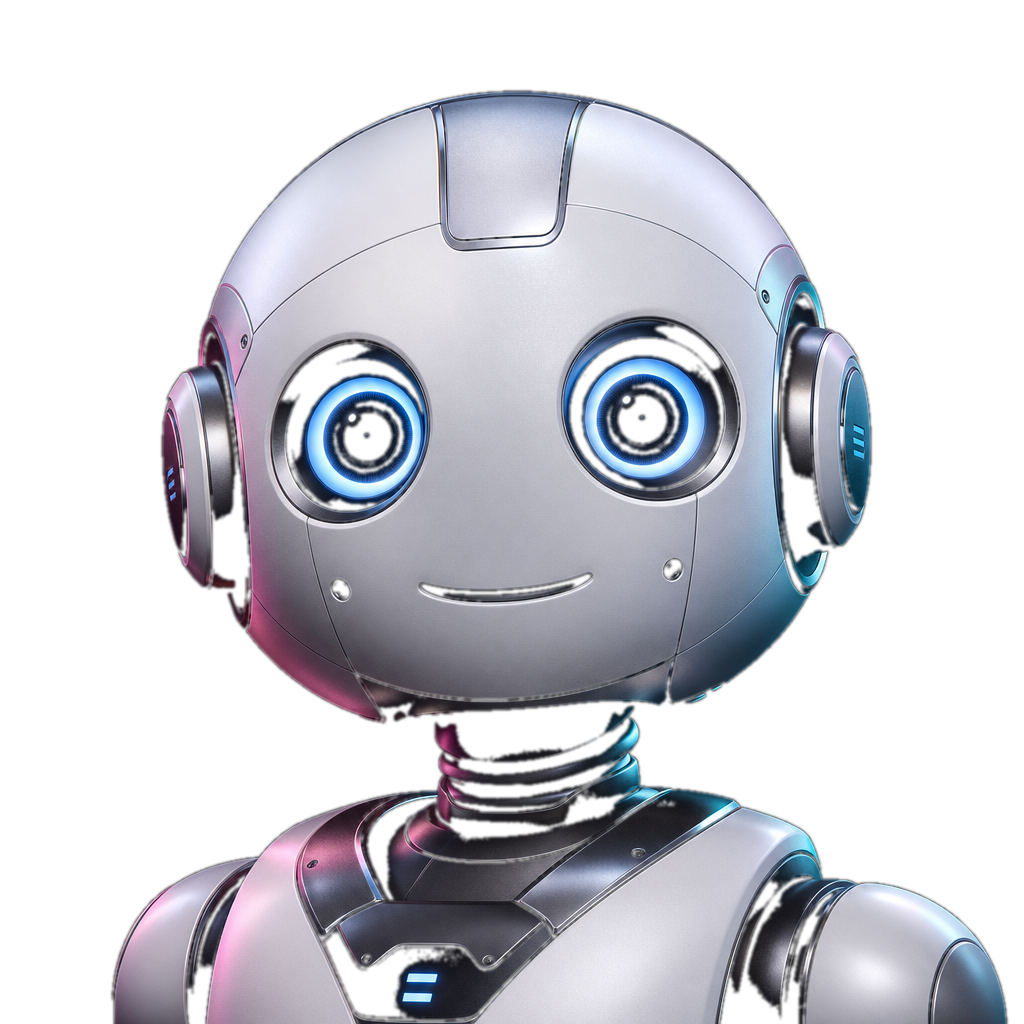
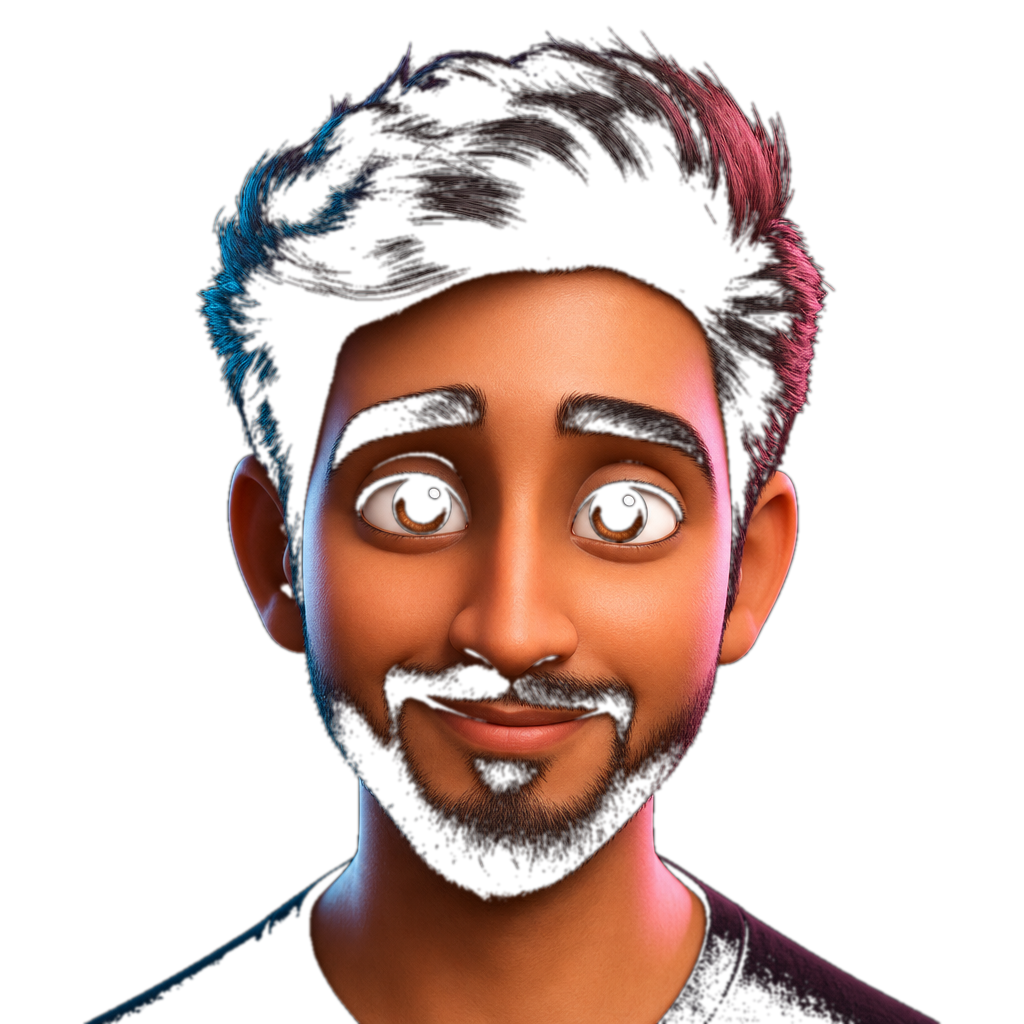
hero: cartoon Pixar Kumar face + matching reference layout, lighter modal
Hero
- New portrait: Pixar/Disney-style 3D cartoon character — Indian young man,
  styled dark hair, big expressive eyes, soft smile, short beard. Replaces
  the robot mascot. Chroma-keyed transparent bg.
- Layout restructured to match the motionsite reference: heading anchored
  to the TOP (pt-24..32, text-center), portrait floats CENTRED at top:60%,
  subline + Contact pinned to the bottom via mt-auto. Previous layout
  pushed the heading to the bottom and stretched the body to the floor.
- Subline rewritten for the 3-line cadence the reference uses:
    Building the tools,
    shipping the experiments,
    owning the impact.

Projects
- Case Study modal: removed the hero image from the modal. Title + Problem
  / What I did / Impact only — the card already shows the visual; the modal
  is now focused entirely on the story.

diff --git a/src/components/sections/Hero.tsx b/src/components/sections/Hero.tsx
@@ -9,46 +9,48 @@ export function Hero() {
       className="relative h-screen flex flex-col px-6 md:px-10"
       style={{ overflowX: 'clip' }}
     >
-      <div className="flex-1 flex flex-col justify-end relative">
-        {/* Background portrait, behind the heading */}
-        <FadeIn
-          delay={0.6}
-          y={30}
-          className="absolute left-1/2 -translate-x-1/2 z-10 w-[240px] xs:w-[260px] sm:w-[360px] md:w-[440px] lg:w-[520px] top-[42%] -translate-y-1/2 sm:top-auto sm:translate-y-0 sm:bottom-0 pointer-events-none"
-        >
-          <Magnet padding={150} strength={3}>
-            <img
-              src="/portrait-3d.png"
-              alt="Kumar Shivam"
-              className="w-full h-auto select-none portrait-blend"
-              draggable={false}
-            />
-          </Magnet>
+      {/* H1 — anchored to the top, centered horizontally */}
+      <div className="pt-24 sm:pt-28 md:pt-32 relative z-20 overflow-hidden w-full">
+        <FadeIn delay={0.15} y={40}>
+          <h1 className="hero-heading font-black uppercase tracking-tight leading-none whitespace-nowrap text-center text-[11vw] sm:text-[12vw] md:text-[13vw] lg:text-[14vw]">
+            Hi, i&apos;m Kumar
+          </h1>
         </FadeIn>
+      </div>
 
-        {/* Massive heading */}
-        <div className="overflow-hidden w-full relative z-20 mt-6 sm:mt-4 md:-mt-5">
-          <FadeIn delay={0.15} y={40}>
-            <h1 className="hero-heading font-black uppercase tracking-tight leading-none whitespace-nowrap w-full text-[11vw] sm:text-[12vw] md:text-[13vw] lg:text-[14vw]">
-              Hi, i&apos;m Kumar
-            </h1>
-          </FadeIn>
-        </div>
+      {/* Portrait — centered horizontally, vertically between H1 and bottom bar */}
+      <FadeIn
+        delay={0.6}
+        y={30}
+        className="absolute left-1/2 -translate-x-1/2 z-10 top-[60%] -translate-y-1/2 w-[200px] xs:w-[230px] sm:w-[280px] md:w-[340px] lg:w-[400px] pointer-events-none"
+      >
+        <Magnet padding={150} strength={3}>
+          <img
+            src="/portrait-3d.png"
+            alt="Kumar Shivam"
+            className="w-full h-auto select-none portrait-blend"
+            draggable={false}
+          />
+        </Magnet>
+      </FadeIn>
 
-        {/* Bottom bar: subline left, contact button right */}
-        <div className="relative z-20 flex justify-between items-end pb-7 sm:pb-8 md:pb-10 gap-4">
-          <FadeIn delay={0.35} y={20}>
-            <p
-              className="text-haze font-light uppercase tracking-wide leading-snug max-w-[200px] sm:max-w-[300px] md:max-w-[380px]"
-              style={{ fontSize: 'clamp(0.7rem, 1.2vw, 1.2rem)' }}
-            >
-              A Lead Product Analyst at media.net · an IIT BHU grad turning data into revenue.
-            </p>
-          </FadeIn>
-          <FadeIn delay={0.5} y={20}>
-            <ContactButton />
-          </FadeIn>
-        </div>
+      {/* Bottom bar — subline left, contact button right */}
+      <div className="mt-auto relative z-20 flex justify-between items-end pb-7 sm:pb-8 md:pb-10 gap-4">
+        <FadeIn delay={0.35} y={20}>
+          <p
+            className="text-haze font-light uppercase tracking-wide leading-snug max-w-[200px] sm:max-w-[260px] md:max-w-[340px]"
+            style={{ fontSize: 'clamp(0.72rem, 1.15vw, 1.1rem)' }}
+          >
+            Building the tools,
+            <br />
+            shipping the experiments,
+            <br />
+            owning the impact.
+          </p>
+        </FadeIn>
+        <FadeIn delay={0.5} y={20}>
+          <ContactButton />
+        </FadeIn>
       </div>
     </section>
   )

diff --git a/src/components/sections/Projects.tsx b/src/components/sections/Projects.tsx
@@ -202,19 +202,6 @@ function CaseStudyModal({
           {project.name}
         </h3>
 
-        {project.image && (
-          <div className="rounded-[20px] sm:rounded-[28px] overflow-hidden mb-6 aspect-[16/10] bg-ink">
-            <img
-              src={project.image}
-              alt={`${project.name} UI`}
-              className="w-full h-full object-cover"
-              onError={(e) => {
-                ;(e.currentTarget as HTMLImageElement).style.display = 'none'
-              }}
-            />
-          </div>
-        )}
-
         <Block label="Problem" body={project.problem} />
         <Block label="What I did" body={project.whatIDid} />
         <Block label="Impact" body={project.impact} accent />

diff --git a/scripts/generate_all_assets.py b/scripts/generate_all_assets.py
@@ -31,16 +31,17 @@ SIZE = "1024x1024"
 
 
 HERO_PROMPT = (
-    "Cute friendly stylized 3D robot mascot character — original design for a "
-    "tech portfolio. Round white-and-chrome metallic head with subtle panel "
-    "seams, two large expressive glowing soft-blue lens eyes, gentle confident "
-    "happy expression with a small smile slot on the face panel, soft "
-    "rubberized neck joint. Sleek modern Pixar-quality industrial design, "
-    "matte and brushed metal textures. Head-and-shoulders composition, "
-    "centred. Plain pure black background. Cinematic dark moody studio "
-    "lighting with soft cool rim light, subtle magenta and teal accent "
-    "reflections. Stylized 3D animation aesthetic. Professional editorial "
-    "portrait quality. 1:1 square crop."
+    "Cute friendly stylized 3D cartoon character portrait of a young Indian "
+    "man in his late 20s, in modern animated film style. Short styled dark "
+    "hair with subtle volume on top, big expressive friendly eyes, gentle "
+    "warm smile, light stubble and short beard, smooth cartoon skin shading. "
+    "Just the head and small hint of shoulders, large head proportions in "
+    "stylized 3D animation aesthetic. Centred. Plain pure black background. "
+    "Soft moody studio lighting with gentle warm rim light, subtle magenta "
+    "and teal reflection accents on the cheek and hair. Octane render, "
+    "ultra-detailed but stylized, no realistic photograph, pure cartoon "
+    "stylization. Professional editorial portrait quality. 1:1 square crop, "
+    "head centred."
 )
 
 
